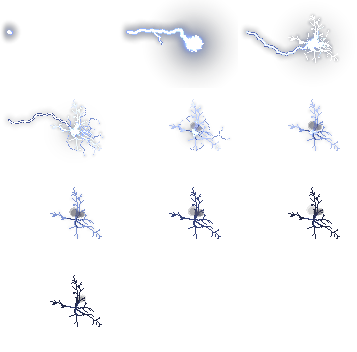
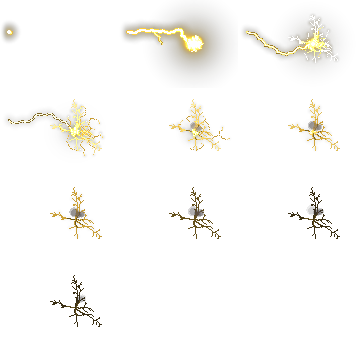
마법사 연쇄 번개 연출을 노란빛으로 다시 뽑아 바꾼다
Claude-Session: https://claude.ai/code/session_01Q8g6pWkC8TSph221KTEwKL

diff --git a/src/game/updates.js b/src/game/updates.js
@@ -2,9 +2,10 @@
    id가 바뀌면 아직 안 본 사람의 단추에 점이 뜬다.
    id 는 순서를 가리는 값이라 이미 나간 것은 고치지 않는다. 화면에 보이는 날짜는 date 다(한국 시간 기준으로 적는다). */
 // RPG 서버에 들어오면 한 번 띄우는 업데이트 공지 — id 를 바꾸면 모두에게 다시 뜬다. notes 는 아래 UPDATES 의 id(위에서부터 보인다)
-export const RPG_NOTICE = { id: "2026-10-198", notes: ["2026-10-198", "2026-10-197"] };
+export const RPG_NOTICE = { id: "2026-10-199", notes: ["2026-10-199", "2026-10-198"] };
 
 export const UPDATES = [
+  { id: "2026-10-199", date: "11월 2일", items: ["마법사 연쇄 번개의 색을 푸른빛에서 노란빛으로 바꿨습니다. 피해와 옮겨 가는 횟수는 그대로입니다."] },
   { id: "2026-10-198", date: "11월 2일", items: ["몹 레이스가 카트 레이스처럼 바뀌었습니다. 위아래로 몰아 줄을 옮깁니다.", "금빛 발판을 밟으면 부스터가 붙고 진흙에 빠지면 느려집니다.", "상자를 지나면 부스터 · 미끄럼 점액 · 방패 가운데 하나를 얻습니다. 뒤처질수록 부스터가 잘 나옵니다. 공격 키나 아이템 버튼으로 씁니다.", "레이스는 2명부터 5명까지 함께 달립니다. 혼자면 한 명이 더 올 때까지 기다립니다."] },
   { id: "2026-10-197", date: "11월 2일", items: ["광장 왼쪽 훈련장 문 아래에 레이스 관리인이 생겼습니다. 사냥터 몹을 타고 겨루는 미니게임 몹 레이스입니다.", "탈것은 토끼 · 늑대 · 멧돼지 · 고릴라 · 키메라 · 포식거미 여섯입니다. 빠르기와 체력이 저마다 다릅니다.", "질주를 누르고 있으면 빨라지지만 체력을 씁니다. 체력이 바닥나면 지쳐서 한동안 느려집니다.", "2명 이상 달리면 1등 5,000 · 2등 2,500 · 3등 1,200 · 완주 400코인입니다. 하루 10번까지 받습니다."] },
   { id: "2026-10-196", date: "11월 2일", items: ["2대2 결투에 시간 제한이 없어졌습니다. 한 팀이 모두 쓰러지거나 기권할 때까지 싸웁니다. 1대1 은 그대로 90초입니다.", "2대2 결투장에 들어가면 빨강 · 파랑 · 녹색 · 노랑 가운데 팀 색이 돌다가 멈춰 정해집니다. 두 팀은 늘 다른 색입니다.", "싸우는 동안 발밑 고리와 머리 위 깃발이 팀 색으로 보여 같은 편을 쉽게 알아봅니다."] },

diff --git a/src/game/bookData.js b/src/game/bookData.js
@@ -33,6 +33,8 @@ const dropAvg = DROP_ROLL.reduce((n, [c, w]) => n + c * w, 0) / total;
 // 10월 26일 (7) 때의 400~800 체력 — 구역 시작 레벨마다(끝 하나 더) · 보스. 같은 날 (8)에서 낮춰 책에는 그때 값을 적는다
 const DEEP_WAS = { mob: [226100, 279650, 339150, 404600, 476000, 553350, 636650, 725900, 821100], boss: [3689000, 4462500, 5355000, 6426000, 7616000, 8925000, 10412500, 11900000] };
 export const PATCH_BOOKS = [
+  { id: "patch-2026-11-02-chain", title: "패치노트 · 11월 2일 (17)", sub: "연쇄 번개 노란빛", color: "#ddbc5c",
+    pages: [{ h: "연쇄 번개 색", p: ["마법사 연쇄 번개가 노란빛으로 바뀌었습니다. 전에는 푸른빛이었습니다.", "피해 · 옮겨 가는 횟수 · 재사용 대기는 그대로입니다."] }] },
   { id: "patch-2026-11-02-kart", title: "패치노트 · 11월 2일 (16)", sub: "몹 레이스 카트 요소", color: "#c9b37c",
     pages: [{ h: "조향 · 발판 · 진흙", p: ["위아래 키나 조이스틱으로 줄을 옮깁니다. 오른쪽은 질주입니다.", "금빛 발판을 밟으면 1초 동안 부스터가 붙습니다. 진흙 안에서는 빠르기가 55%로 줄어듭니다."] },
       { h: "아이템", p: ["상자 줄을 지나면 아이템을 하나 얻습니다. 부스터 2초 · 미끄럼 점액(밟으면 1.3초 느려짐) · 방패 6초입니다.", "뒤처질수록 부스터가 잘 나옵니다. 공격 키(스페이스)나 아이템 버튼으로 씁니다."] },

diff --git a/src/game/skillPxData.js b/src/game/skillPxData.js
@@ -20,7 +20,7 @@ export const SKILL_PX_SHEETS = {
   arrow_ice: { w: 81, h: 15, cols: 2, n: 6, px: 79, py: 7, loop: 1 },      // projectiles/arrow(서리빛)
   spark: { w: 112, h: 69, cols: 3, n: 8, px: 28, py: 56 },                 // impacts/hit-spark
   spark_ice: { w: 112, h: 69, cols: 3, n: 8, px: 28, py: 56 },             // impacts/hit-spark(서리빛)
-  chain: { w: 119, h: 88, cols: 3, n: 10, px: 75, py: 44 },                // lightning/zap-hit
+  chain: { w: 119, h: 88, cols: 3, n: 10, px: 75, py: 44 },                // lightning/zap-hit(노란빛 · 11월 2일)
   iron: { w: 70, h: 74, cols: 4, n: 12, px: 35, py: 61, loop: 1 },         // holy/divine-shield
   circle: { w: 162, h: 219, cols: 5, n: 16, px: 81, py: 192 },             // arcane/magic-circle-cast
   // 원소 구체 — 원소마다 색을 따로 뽑았다(원소 탑 색에서 톤다운)

diff --git a/public/assets/game/README.md b/public/assets/game/README.md
@@ -106,7 +106,7 @@ python3 tools/png-to-webp.py             # public/assets/game 에 WebP 와 manif
 | arrow · spark | 관통 화살 · 연사 | projectiles/arrow(반복) · impacts/hit-spark |
 | arrow_ice · spark_ice | 후퇴 사격 | projectiles/arrow · impacts/hit-spark(서리빛) |
 | orb_<원소> · boom_<원소> | 원소 구체 | projectiles/plasma-shot(반복) · explosions/plasma-explosion(원소 여섯 색) |
-| chain | 연쇄 번개 | lightning/zap-hit |
+| chain | 연쇄 번개 | lightning/zap-hit(노란빛) |
 | circle | 강화 마법진 | arcane/magic-circle-cast |
 
 월드보스 연출: `rpg/effects/world-boss/*.webp` — pixelfx(MIT, 커밋 a841596)로 뽑은 투명 픽셀 시트 10장. 1배 픽셀 그대로 두고 그릴 때 키운다(흐림 없음). 칸 크기 · 열 수 · 칸 수 · 기준점(발밑) · 경고/맞는 순간 칸 구간은 `worldBossPxData.js` `WB_PX_SHEETS`, 그리기는 `worldBossPxArt.js`. 못 불러오면 `worldBossArt.js` 의 예전 코드 그림으로 그린다. 뽑는 법과 색은 `design/effects/pixelfx/world-boss/make.mjs`, 낙뢰 · 독 시트의 그늘 · 검은 자국 손질은 같은 폴더 `post.py`.
